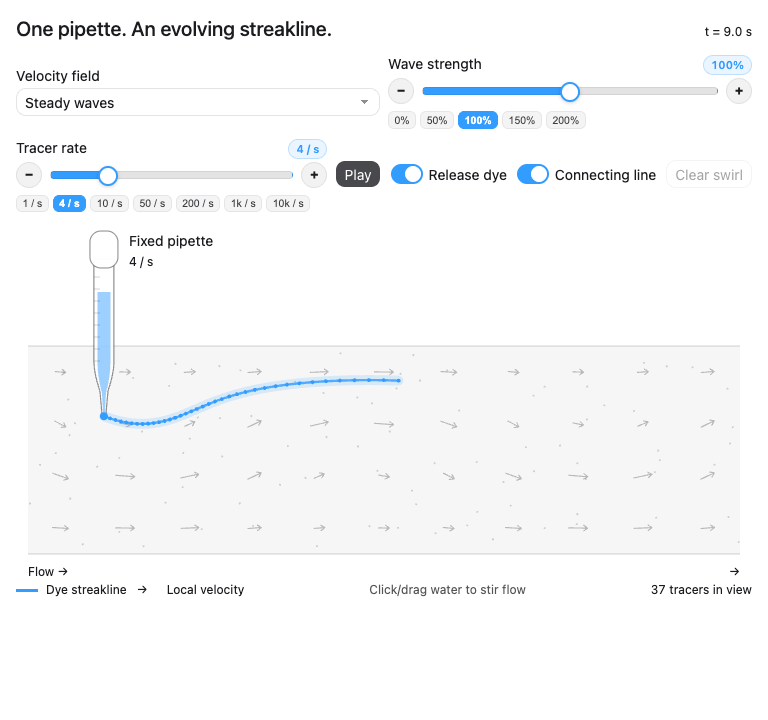
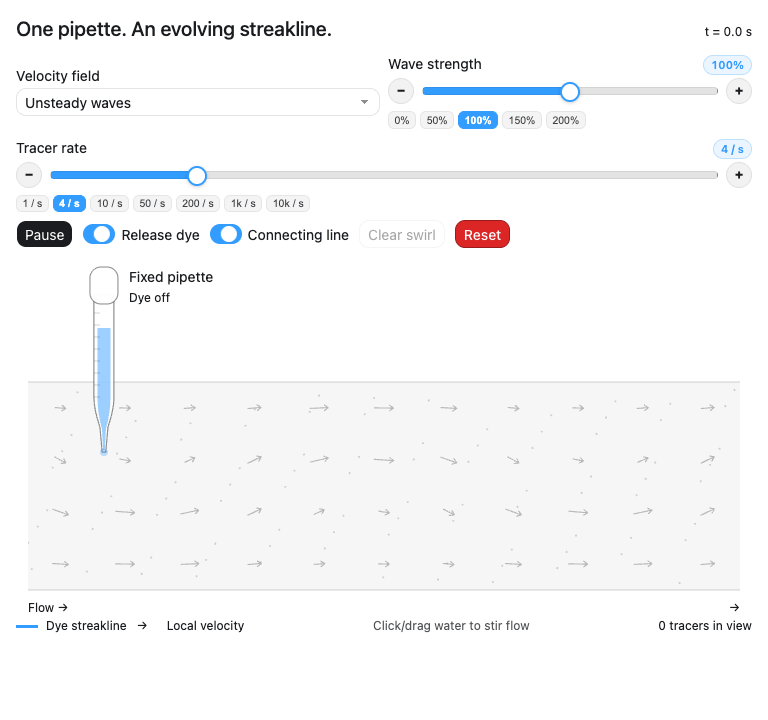
Add red reset button to restore initial lab state

diff --git a/dist/index.html b/dist/index.html
@@ -1390,6 +1390,7 @@ html&gt;body{padding:0}&lt;/style&gt;
         &lt;span class=&quot;form-check-label&quot;&gt;Connecting line&lt;/span&gt;
       &lt;/label&gt;
       &lt;button type=&quot;button&quot; class=&quot;btn btn-secondary&quot; id=&quot;sl-vortex-clear&quot; disabled&gt;Clear swirl&lt;/button&gt;
+      &lt;button type=&quot;button&quot; class=&quot;btn&quot; id=&quot;sl-reset&quot;&gt;Reset&lt;/button&gt;
     &lt;/div&gt;
   &lt;/div&gt;
   &lt;svg class=&quot;sl-scene&quot; id=&quot;sl-scene&quot; role=&quot;img&quot; aria-labelledby=&quot;sl-title sl-description&quot;&gt;
@@ -1488,6 +1489,10 @@ html&gt;body{padding:0}&lt;/style&gt;
   #streakline-lab .sl-chip:hover:not(:disabled) { opacity: 1; border-color: var(--primary); background: color-mix(in srgb, var(--primary) 10%, var(--card)); color: var(--primary); }
   #streakline-lab .sl-chip.is-active { opacity: 1; border-color: var(--primary); background: var(--primary); color: #ffffff; font-weight: 600; }
   #streakline-lab .sl-chip:disabled { opacity: 0.35; cursor: not-allowed; }
+  #streakline-lab #sl-reset { background: #dc2626; border-color: #b91c1c; color: #ffffff; font-weight: 500; cursor: pointer; transition: background 0.15s ease, transform 0.1s ease, box-shadow 0.15s ease; }
+  #streakline-lab #sl-reset:hover { background: #b91c1c; border-color: #991b1b; box-shadow: 0 1px 4px rgba(220, 38, 38, 0.35); }
+  #streakline-lab #sl-reset:active { transform: scale(0.94); background: #991b1b; }
+  #streakline-lab #sl-reset:focus-visible { outline: none; box-shadow: 0 0 0 3px rgba(220, 38, 38, 0.4); }
   @media (max-width: 440px) {
     #streakline-lab .sl-heading { gap: 6px; }
     #streakline-lab .sl-scene { height: 330px; }
@@ -1890,6 +1895,24 @@ html&gt;body{padding:0}&lt;/style&gt;
       }
     });
   });
+  const resetBtn = el(&#x27;sl-reset&#x27;);
+  function resetAll() {
+    state.mode = &#x27;unsteady&#x27;;
+    state.paused = false;
+    state.injecting = false;
+    state.line = false;
+    state.rate = 4;
+    state.waveStrength = 1;
+    vortex.active = false;
+    isPipetteHeld = false;
+    pipette.classList.remove(&#x27;sl-squeezed&#x27;);
+    initialize();
+    syncControls();
+    draw();
+    save();
+    announce(&#x27;Experiment reset to initial conditions.&#x27;);
+  }
+  if (resetBtn) resetBtn.addEventListener(&#x27;click&#x27;, resetAll);
   pause.addEventListener(&#x27;click&#x27;, () =&gt; {
     state.paused = !state.paused; last = null; syncControls(); save();
     announce(state.paused ? `Paused at ${(ticks * DT).toFixed(1)} seconds.` : &#x27;Simulation playing.&#x27;);
@@ -1935,6 +1958,7 @@ html&gt;body{padding:0}&lt;/style&gt;
   layout(); requestAnimationFrame(animate);
 })();
 &lt;/script&gt;
+
 
 
 

diff --git a/outputs/streakline-demo.html b/outputs/streakline-demo.html
@@ -1390,6 +1390,7 @@ html&gt;body{padding:0}&lt;/style&gt;
         &lt;span class=&quot;form-check-label&quot;&gt;Connecting line&lt;/span&gt;
       &lt;/label&gt;
       &lt;button type=&quot;button&quot; class=&quot;btn btn-secondary&quot; id=&quot;sl-vortex-clear&quot; disabled&gt;Clear swirl&lt;/button&gt;
+      &lt;button type=&quot;button&quot; class=&quot;btn&quot; id=&quot;sl-reset&quot;&gt;Reset&lt;/button&gt;
     &lt;/div&gt;
   &lt;/div&gt;
   &lt;svg class=&quot;sl-scene&quot; id=&quot;sl-scene&quot; role=&quot;img&quot; aria-labelledby=&quot;sl-title sl-description&quot;&gt;
@@ -1488,6 +1489,10 @@ html&gt;body{padding:0}&lt;/style&gt;
   #streakline-lab .sl-chip:hover:not(:disabled) { opacity: 1; border-color: var(--primary); background: color-mix(in srgb, var(--primary) 10%, var(--card)); color: var(--primary); }
   #streakline-lab .sl-chip.is-active { opacity: 1; border-color: var(--primary); background: var(--primary); color: #ffffff; font-weight: 600; }
   #streakline-lab .sl-chip:disabled { opacity: 0.35; cursor: not-allowed; }
+  #streakline-lab #sl-reset { background: #dc2626; border-color: #b91c1c; color: #ffffff; font-weight: 500; cursor: pointer; transition: background 0.15s ease, transform 0.1s ease, box-shadow 0.15s ease; }
+  #streakline-lab #sl-reset:hover { background: #b91c1c; border-color: #991b1b; box-shadow: 0 1px 4px rgba(220, 38, 38, 0.35); }
+  #streakline-lab #sl-reset:active { transform: scale(0.94); background: #991b1b; }
+  #streakline-lab #sl-reset:focus-visible { outline: none; box-shadow: 0 0 0 3px rgba(220, 38, 38, 0.4); }
   @media (max-width: 440px) {
     #streakline-lab .sl-heading { gap: 6px; }
     #streakline-lab .sl-scene { height: 330px; }
@@ -1890,6 +1895,24 @@ html&gt;body{padding:0}&lt;/style&gt;
       }
     });
   });
+  const resetBtn = el(&#x27;sl-reset&#x27;);
+  function resetAll() {
+    state.mode = &#x27;unsteady&#x27;;
+    state.paused = false;
+    state.injecting = false;
+    state.line = false;
+    state.rate = 4;
+    state.waveStrength = 1;
+    vortex.active = false;
+    isPipetteHeld = false;
+    pipette.classList.remove(&#x27;sl-squeezed&#x27;);
+    initialize();
+    syncControls();
+    draw();
+    save();
+    announce(&#x27;Experiment reset to initial conditions.&#x27;);
+  }
+  if (resetBtn) resetBtn.addEventListener(&#x27;click&#x27;, resetAll);
   pause.addEventListener(&#x27;click&#x27;, () =&gt; {
     state.paused = !state.paused; last = null; syncControls(); save();
     announce(state.paused ? `Paused at ${(ticks * DT).toFixed(1)} seconds.` : &#x27;Simulation playing.&#x27;);
@@ -1935,6 +1958,7 @@ html&gt;body{padding:0}&lt;/style&gt;
   layout(); requestAnimationFrame(animate);
 })();
 &lt;/script&gt;
+
 
 
 

diff --git a/work/streakline-preview.html b/work/streakline-preview.html
@@ -1390,6 +1390,7 @@ html&gt;body{padding:0}&lt;/style&gt;
         &lt;span class=&quot;form-check-label&quot;&gt;Connecting line&lt;/span&gt;
       &lt;/label&gt;
       &lt;button type=&quot;button&quot; class=&quot;btn btn-secondary&quot; id=&quot;sl-vortex-clear&quot; disabled&gt;Clear swirl&lt;/button&gt;
+      &lt;button type=&quot;button&quot; class=&quot;btn&quot; id=&quot;sl-reset&quot;&gt;Reset&lt;/button&gt;
     &lt;/div&gt;
   &lt;/div&gt;
   &lt;svg class=&quot;sl-scene&quot; id=&quot;sl-scene&quot; role=&quot;img&quot; aria-labelledby=&quot;sl-title sl-description&quot;&gt;
@@ -1488,6 +1489,10 @@ html&gt;body{padding:0}&lt;/style&gt;
   #streakline-lab .sl-chip:hover:not(:disabled) { opacity: 1; border-color: var(--primary); background: color-mix(in srgb, var(--primary) 10%, var(--card)); color: var(--primary); }
   #streakline-lab .sl-chip.is-active { opacity: 1; border-color: var(--primary); background: var(--primary); color: #ffffff; font-weight: 600; }
   #streakline-lab .sl-chip:disabled { opacity: 0.35; cursor: not-allowed; }
+  #streakline-lab #sl-reset { background: #dc2626; border-color: #b91c1c; color: #ffffff; font-weight: 500; cursor: pointer; transition: background 0.15s ease, transform 0.1s ease, box-shadow 0.15s ease; }
+  #streakline-lab #sl-reset:hover { background: #b91c1c; border-color: #991b1b; box-shadow: 0 1px 4px rgba(220, 38, 38, 0.35); }
+  #streakline-lab #sl-reset:active { transform: scale(0.94); background: #991b1b; }
+  #streakline-lab #sl-reset:focus-visible { outline: none; box-shadow: 0 0 0 3px rgba(220, 38, 38, 0.4); }
   @media (max-width: 440px) {
     #streakline-lab .sl-heading { gap: 6px; }
     #streakline-lab .sl-scene { height: 330px; }
@@ -1890,6 +1895,24 @@ html&gt;body{padding:0}&lt;/style&gt;
       }
     });
   });
+  const resetBtn = el(&#x27;sl-reset&#x27;);
+  function resetAll() {
+    state.mode = &#x27;unsteady&#x27;;
+    state.paused = false;
+    state.injecting = false;
+    state.line = false;
+    state.rate = 4;
+    state.waveStrength = 1;
+    vortex.active = false;
+    isPipetteHeld = false;
+    pipette.classList.remove(&#x27;sl-squeezed&#x27;);
+    initialize();
+    syncControls();
+    draw();
+    save();
+    announce(&#x27;Experiment reset to initial conditions.&#x27;);
+  }
+  if (resetBtn) resetBtn.addEventListener(&#x27;click&#x27;, resetAll);
   pause.addEventListener(&#x27;click&#x27;, () =&gt; {
     state.paused = !state.paused; last = null; syncControls(); save();
     announce(state.paused ? `Paused at ${(ticks * DT).toFixed(1)} seconds.` : &#x27;Simulation playing.&#x27;);
@@ -1935,6 +1958,7 @@ html&gt;body{padding:0}&lt;/style&gt;
   layout(); requestAnimationFrame(animate);
 })();
 &lt;/script&gt;
+
 
 
 
